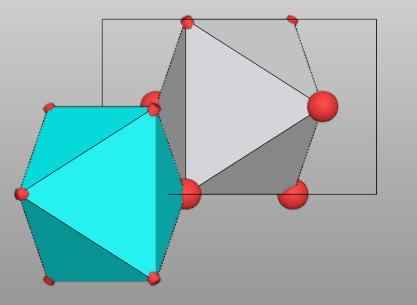
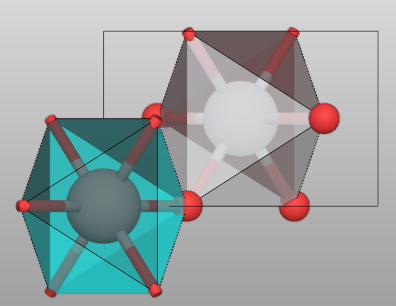
update color for polyhedra

diff --git a/docs/source/_static/scripts/tutorial-species-polyhedra.py b/docs/source/_static/scripts/tutorial-species-polyhedra.py
@@ -1,0 +1,14 @@
+from batoms.bio import read
+bpy.ops.batoms.delete()
+tio2 = read("../tests/datas/tio2.cif")
+tio2.replace([0], 'Ti_1')
+tio2.bonds.setting
+tio2.model_style = 2
+tio2.bonds.setting.add(('Ti_1', 'O'))
+tio2.bonds.setting
+tio2.bonds.setting[('Ti_1', 'O')].polyhedra = True
+tio2.bonds.setting
+tio2.polyhedras.setting.add('Ti_1')
+tio2.polyhedras.setting['Ti_1'].color = (0, 1, 1, 0.8)
+tio2.polyhedras.setting
+tio2.model_style = 2

diff --git a/docs/source/tutorial/species.rst b/docs/source/tutorial/species.rst
@@ -122,7 +122,7 @@ Ti_1-O      0.000   2.760      1            True        1
 Also add ``Ti_1`` to polyhedras. To make the polyhedra different from another ``Ti`` species, we change its color.
 
 >>> tio2.polyhedras.setting.add('Ti_1')
->>> tio2.polyhedras.setting['Ti_1'].color = (0, 1, 1, 1)
+>>> tio2.polyhedras.setting['Ti_1'].color = (0, 1, 1, 0.8)
 
 Here we see that there are two different Ti species for polyhedras:
 
@@ -131,6 +131,10 @@ Center                color         width
 Ti           [0.75  0.76  0.78  1.00]   0.010 
 Ti_1         [0.00  1.00  1.00  1.00]   0.010 
 ------------------------------------------------------------
+
+Redraw the structure:
+
+>>> tio2.model_style = 2
 
 .. image:: /images/tutorial-species-polyhedra-2.png
    :width: 6cm
